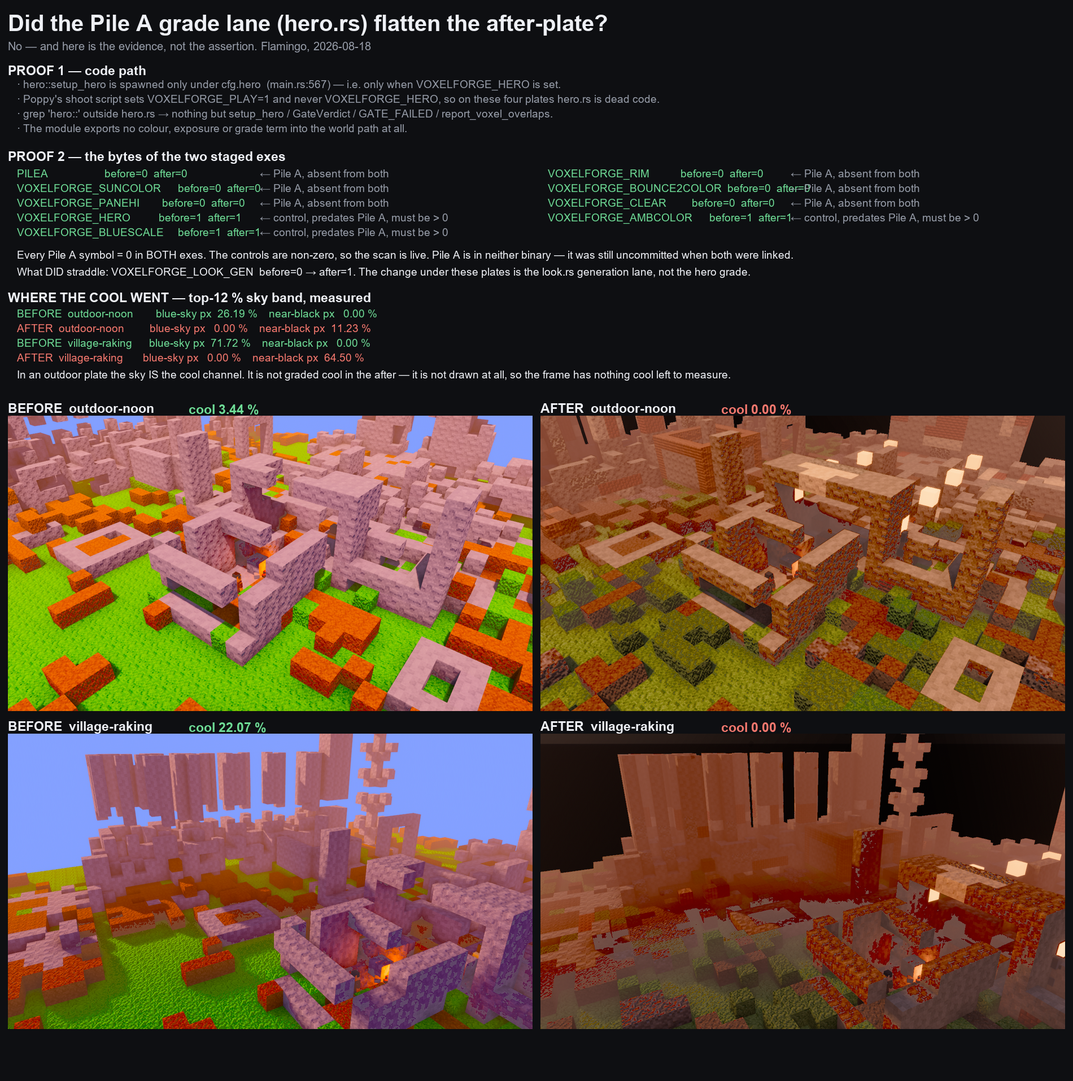
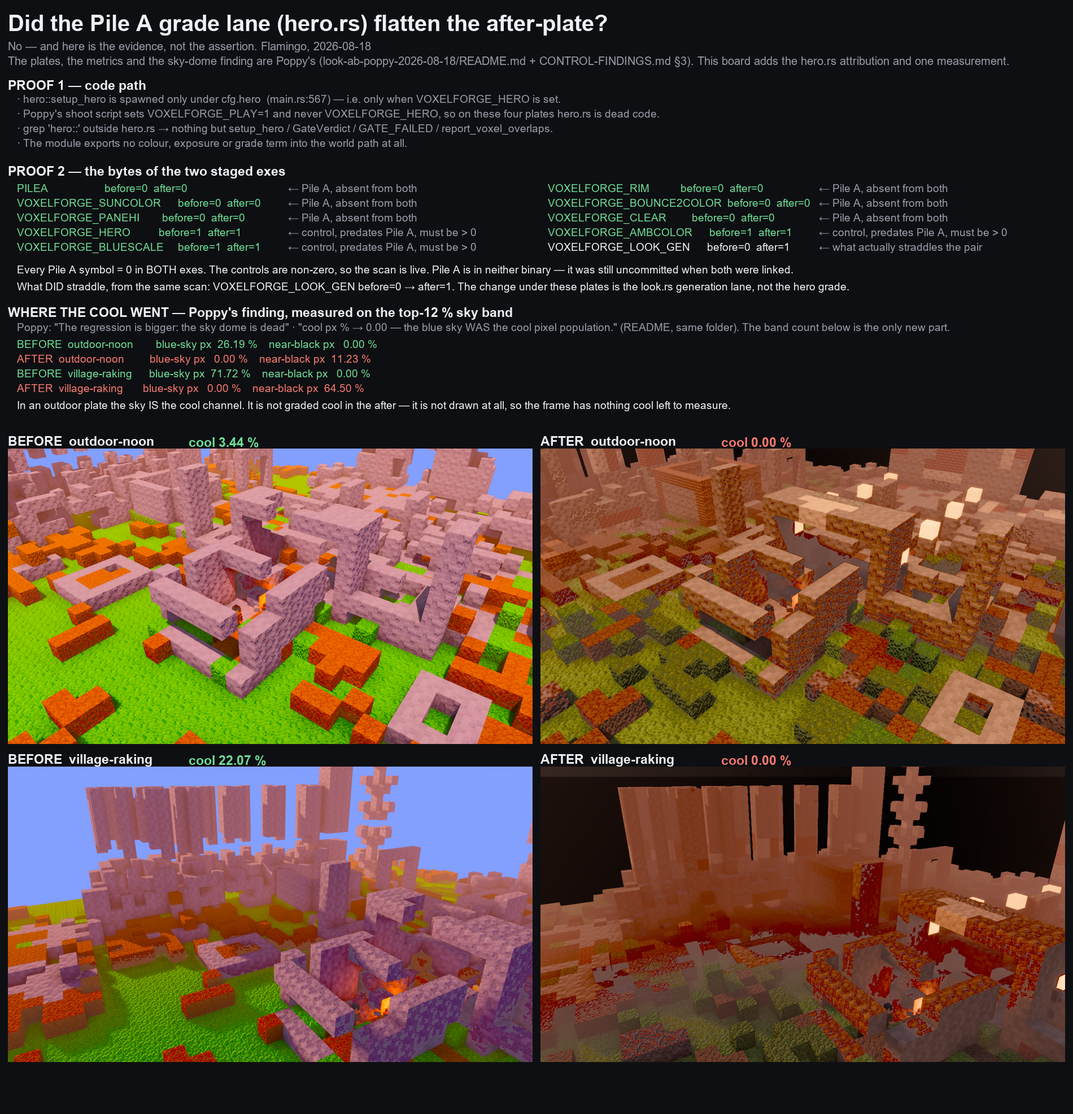
look(attrib): credit Poppy for the sky-dome finding, and stop printing numbers I did not measure
Review of 03e6a01 was right on three counts.

1. ATTRIBUTION. The sky-dome conclusion is Poppy's, published before I
   looked at it, in the same folder the plates came from:
   look-ab-poppy-2026-08-18/README.md -- "The regression is bigger: the sky
   dome is dead" / "cool px % -> 0.00 -- the blue sky WAS the cool pixel
   population" -- and CONTROL-FINDINGS.md §3, which proves with a one-binary
   control that both plates read v3. My board presented it as a discovery.
   It isn't one. The board now names Poppy in the subtitle and in the
   section header, quotes the README inline, and says plainly that the only
   new part is the top-12 % band count.

2. NO UNMEASURED NUMBERS NEXT TO MEASURED ONES. Two things were hand-typed
   strings dressed as readings:
     - "VOXELFORGE_LOOK_GEN before=0 -> after=1" was a d.text() literal
       outside PILEA_KEYS/CONTROL_KEYS, so the fail-closed control guard
       never covered it. It is now STRADDLE_KEYS, scanned with everything
       else and drawn from the counts (still 0 -> 1, now because the bytes
       say so). It gets no pass/fail colour: it is the finding, not a gate.
     - The plate captions "cool 3.44 %" / "cool 0.00 %" were literals in
       PLATES. They are now read from _poppy_ab_20260818_metrics.json at
       draw time, and the red/green threshold comes off the value. Poppy's
       own board does exactly this "so a caption cannot drift off its
       plate"; the rule was right and I should have followed it.
[…]

diff --git a/scripts/_flamingo_attrib_20260818.py b/scripts/_flamingo_attrib_20260818.py
@@ -2,11 +2,21 @@
 """Flamingo -- attribution board for the "after-plate went cool 0.00 %" finding.
 
 The question this answers is NOT "is the after plate worse" (Poppy measured that
-and it is). It is the narrower one I was asked: *did the Pile A grade lane in
-`hero.rs` cause it.*
+and it is), and NOT "what killed the cool pixels" -- **Poppy answered that one
+too**, before I looked at it, in `docs/look-ab-poppy-2026-08-18/README.md`:
 
-Two independent proofs go on the board, because either one alone is the kind of
-evidence that has fooled this office before:
+    "The regression is bigger: the sky dome is dead."
+    "cool px % -> 0.00 -- the blue sky *was* the cool pixel population. With the
+     dome gone, every cool pixel in the frame goes with it."
+
+and `CONTROL-FINDINGS.md` §3 proves with a one-binary control that both plates
+read v3, so the pair never tested the look lane at all. Everything this board
+says about the sky is Poppy's conclusion; my only addition there is a *number*
+for it (the top-12 % band count), not the finding.
+
+What IS mine is the narrower question I was asked: *did the Pile A grade lane in
+`hero.rs` cause it.* Two independent proofs go on the board, because either one
+alone is the kind of evidence that has fooled this office before:
 
   1. CODE PATH -- `hero::setup_hero` is spawned only under `cfg.hero`, i.e. only
      when `VOXELFORGE_HERO` is set. Poppy's shoot script sets `VOXELFORGE_PLAY=1`
@@ -21,11 +31,16 @@ evidence that has fooled this office before:
      (VOXELFORGE_HERO, _AMBCOLOR, _BLUESCALE) are scanned alongside so a scan
      that silently finds nothing cannot be mistaken for a clean result.
 
+Nothing on this board is typed in by hand. Every number is read at draw time
+from the pinned exes or from Poppy's `_poppy_ab_20260818_metrics.json`, because
+a caption that cannot drift is the only kind worth printing next to a measured
+one -- that rule is Poppy's too, from the board in the same folder.
+
 Writes docs/assets/look/flamingo-attrib-2026-08-18.png
 """
+import hashlib
 import json
 import re
-import subprocess
 import sys
 from pathlib import Path
 
@@ -33,6 +48,8 @@ from PIL import Image, ImageDraw, ImageFont
 
 ROOT = Path(__file__).resolve().parents[1]
 AB = ROOT / "docs" / "look-ab-poppy-2026-08-18"
+STAGE = ROOT / "_poppy_ab_stage"
+METRICS = ROOT / "_poppy_ab_20260818_metrics.json"
 OUT = ROOT / "docs" / "assets" / "look" / "flamingo-attrib-2026-08-18.png"
 
 # Pile A's own symbols, then three controls that existed BEFORE Pile A. If the
@@ -40,14 +57,28 @@ OUT = ROOT / "docs" / "assets" / "look" / "flamingo-attrib-2026-08-18.png"
 PILEA_KEYS = ["PILEA", "VOXELFORGE_RIM", "VOXELFORGE_SUNCOLOR",
               "VOXELFORGE_BOUNCE2COLOR", "VOXELFORGE_PANEHI", "VOXELFORGE_CLEAR"]
 CONTROL_KEYS = ["VOXELFORGE_HERO", "VOXELFORGE_AMBCOLOR", "VOXELFORGE_BLUESCALE"]
+# What actually straddles the pair. Scanned like everything else so the board
+# prints a measurement, not a sentence I typed. Named separately because it is
+# neither a Pile A symbol (must be 0) nor a control (must be > 0) -- it is the
+# finding, and it must go up as whatever the bytes say.
+STRADDLE_KEYS = ["VOXELFORGE_LOOK_GEN"]
 
-EXES = [("BEFORE exe", ROOT / "target-flamingo" / "release" / "voxelforge.exe"),
-        ("AFTER exe", ROOT / "target" / "release" / "voxelforge.exe")]
+# Poppy staged these two copies precisely because a teammate was building into
+# the shared `target/`. Scanning `target/` live means the next `--bin voxelforge`
+# build silently swaps the AFTER exe under the board. Read the frozen copies and
+# pin them: a swapped binary must fail loudly, not re-render quietly.
+EXES = [("BEFORE exe", STAGE / "before_voxelforge.exe",
+         "4ded9219a24913a811b307265077b980"),
+        ("AFTER exe", STAGE / "after_voxelforge.exe",
+         "b417f9b4a50d826eb97b01c7588882e0")]
 
-PLATES = [("before_outdoor-noon", "BEFORE  outdoor-noon", "cool 3.44 %"),
-          ("after_outdoor-noon", "AFTER  outdoor-noon", "cool 0.00 %"),
-          ("before_village-raking", "BEFORE  village-raking", "cool 22.07 %"),
-          ("after_village-raking", "AFTER  village-raking", "cool 0.00 %")]
+# (plate stem, caption title, key in Poppy's metrics json). The cool % is READ
+# from that file at draw time -- Poppy's own board does this so a caption cannot
+# drift off its plate, and the same reason applies here.
+PLATES = [("before_outdoor-noon", "BEFORE  outdoor-noon", "before_noon"),
+          ("after_outdoor-noon", "AFTER  outdoor-noon", "after_noon"),
+          ("before_village-raking", "BEFORE  village-raking", "before_vill"),
+          ("after_village-raking", "AFTER  village-raking", "after_vill")]
 
 
 def font(sz, bold=False):
@@ -59,19 +90,30 @@ def font(sz, bold=False):
     return ImageFont.load_default()
 
 
+ALL_KEYS = PILEA_KEYS + CONTROL_KEYS + STRADDLE_KEYS
+
+
 def scan(path):
     """Count each key in the exe's bytes. Latin-1 maps every byte 1:1, so a
     match offset is a real byte offset -- no decode can drop a region."""
     blob = path.read_bytes().decode("latin-1")
-    return {k: len(re.findall(re.escape(k), blob)) for k in PILEA_KEYS + CONTROL_KEYS}
+    return {k: len(re.findall(re.escape(k), blob)) for k in ALL_KEYS}
 
 
 def main():
-    for _, p in EXES:
+    # ---- pin the binaries before reading a single byte of them ----------
+    for tag, p, want in EXES:
         if not p.exists():
-            sys.exit(f"missing exe: {p}")
+            sys.exit(f"REFUSING TO MEASURE: missing {tag}: {p}")
+        got = hashlib.md5(p.read_bytes()).hexdigest()
+        if got != want:
+            sys.exit(f"REFUSING TO MEASURE: {tag} {p.name} is md5 {got}, "
+                     f"expected {want} -- the staged binary was replaced. "
+                     "Re-stage from the run that shot these plates, or re-pin "
+                     "deliberately; do NOT re-render the board against a "
+                     "different exe.")
 
-    scans = [(tag, p, scan(p)) for tag, p in EXES]
+    scans = [(tag, p, scan(p)) for tag, p, _ in EXES]
 
     # Guard: if a control key is 0 in every exe, the scan itself is dead and the
     # board would publish a false "clean". Refuse rather than draw it.
@@ -80,13 +122,23 @@ def main():
             sys.exit(f"REFUSING TO MEASURE: control key {ck} is 0 in every exe -- "
                      "the scan is broken, not the binaries clean")
 
-    W, TH, GAP = 1900, 706, 14
+    if not METRICS.exists():
+        sys.exit(f"REFUSING TO MEASURE: missing {METRICS} -- the plate captions "
+                 "are read from it, and hand-typed ones drift")
+    metrics = json.loads(METRICS.read_text())
+    for _, _, mkey in PLATES:
+        if mkey not in metrics or "cool_pct_all" not in metrics[mkey]:
+            sys.exit(f"REFUSING TO MEASURE: {METRICS.name} has no "
+                     f"{mkey}.cool_pct_all")
+
+    W, TH, GAP = 1900, 764, 14
     cell_w = (W - GAP * 3) // 2
     plates = []
-    for stem, title, note in PLATES:
+    for stem, title, mkey in PLATES:
         im = Image.open(AB / f"{stem}.png").convert("RGB")
         h = round(im.height * cell_w / im.width)
-        plates.append((im.resize((cell_w, h), Image.LANCZOS), title, note))
+        cool = metrics[mkey]["cool_pct_all"]
+        plates.append((im.resize((cell_w, h), Image.LANCZOS), title, cool))
     ph = plates[0][0].height
     H = TH + (ph + 40) * 2 + GAP * 3 + 40
 
@@ -99,8 +151,12 @@ def main():
            font=f_h1, fill=INK)
     d.text((GAP, 70), "No — and here is the evidence, not the assertion. "
            "Flamingo, 2026-08-18", font=f_b, fill=DIM)
+    d.text((GAP, 96), "The plates, the metrics and the sky-dome finding are Poppy's "
+           "(look-ab-poppy-2026-08-18/README.md + CONTROL-FINDINGS.md §3). "
+           "This board adds the hero.rs attribution and one measurement.",
+           font=f_b, fill=DIM)
 
-    y = 112
+    y = 138
     d.text((GAP, y), "PROOF 1 — code path", font=f_h2, fill=INK)
     for ln in ["hero::setup_hero is spawned only under cfg.hero  (main.rs:567) — i.e. only when VOXELFORGE_HERO is set.",
                "Poppy's shoot script sets VOXELFORGE_PLAY=1 and never VOXELFORGE_HERO, so on these four plates hero.rs is dead code.",
@@ -114,28 +170,43 @@ def main():
     y += 32
     # Two columns, each wide enough for label AND tail — a three-up grid ran the
     # tails into the next column's label and the board became unreadable.
-    for i, key in enumerate(PILEA_KEYS + CONTROL_KEYS):
+    for i, key in enumerate(ALL_KEYS):
         cx = GAP + 16 + (i % 2) * 940
         cy = y + (i // 2) * 26
-        is_ctrl = key in CONTROL_KEYS
         counts = [s[key] for _, _, s in scans]
-        colour = (GOOD if any(counts) else BAD) if is_ctrl else (BAD if any(counts) else GOOD)
-        tail = "← control, predates Pile A, must be > 0" if is_ctrl \
-            else "← Pile A, absent from both"
+        if key in CONTROL_KEYS:
+            colour = GOOD if any(counts) else BAD
+            tail = "← control, predates Pile A, must be > 0"
+        elif key in STRADDLE_KEYS:
+            # No pass/fail colour: this row is the finding, whatever it reads.
+            colour = INK
+            tail = "← what actually straddles the pair"
+        else:
+            colour = BAD if any(counts) else GOOD
+            tail = "← Pile A, absent from both"
         d.text((cx, cy), f"{key:<24} before={counts[0]}  after={counts[1]}", font=f_m, fill=colour)
-        d.text((cx + 430, cy), tail, font=f_m, fill=DIM)
-    y += ((len(PILEA_KEYS + CONTROL_KEYS) + 1) // 2) * 26 + 14
+        d.text((cx + 480, cy), tail, font=f_m, fill=DIM)
+    y += ((len(ALL_KEYS) + 1) // 2) * 26 + 14
     d.text((GAP + 16, y), "Every Pile A symbol = 0 in BOTH exes. The controls are non-zero, so the scan is live. "
            "Pile A is in neither binary — it was still uncommitted when both were linked.",
            font=f_m, fill=INK)
     y += 30
-    d.text((GAP + 16, y), "What DID straddle: VOXELFORGE_LOOK_GEN  before=0 → after=1. "
+    gen = STRADDLE_KEYS[0]
+    gen_counts = [s[gen] for _, _, s in scans]
+    d.text((GAP + 16, y), f"What DID straddle, from the same scan: {gen} "
+           f"before={gen_counts[0]} → after={gen_counts[1]}. "
            "The change under these plates is the look.rs generation lane, not the hero grade.",
            font=f_m, fill=INK)
 
-    # ---- what actually ate the cool pixels, measured rather than eyeballed ----
+    # ---- Poppy's finding, with a number attached ----
     y += 44
-    d.text((GAP, y), "WHERE THE COOL WENT — top-12 % sky band, measured", font=f_h2, fill=INK)
+    d.text((GAP, y), "WHERE THE COOL WENT — Poppy's finding, measured on the top-12 % sky band",
+           font=f_h2, fill=INK)
+    y += 28
+    d.text((GAP + 16, y), "Poppy: \"The regression is bigger: the sky dome is dead\" · "
+           "\"cool px % → 0.00 — the blue sky WAS the cool pixel population.\" "
+           "(README, same folder). The band count below is the only new part.",
+           font=f_m, fill=DIM)
     y += 30
     for stem, title, _ in PLATES:
         im = Image.open(AB / f"{stem}.png").convert("RGB")
@@ -154,13 +225,13 @@ def main():
            font=f_m, fill=INK)
 
     y = TH
-    for i, (im, title, note) in enumerate(plates):
+    for i, (im, title, cool) in enumerate(plates):
         x = GAP + (i % 2) * (cell_w + GAP)
         yy = y + (i // 2) * (ph + 40)
         board.paste(im, (x, yy + 30))
-        bad = note == "cool 0.00 %"
+        note = f"cool {cool:.2f} %"   # from Poppy's metrics json, not typed here
         d.text((x, yy + 4), title, font=f_h2, fill=INK)
-        d.text((x + 320, yy + 6), note, font=f_h2, fill=BAD if bad else GOOD)
+        d.text((x + 320, yy + 6), note, font=f_h2, fill=BAD if cool < 1.0 else GOOD)
     OUT.parent.mkdir(parents=True, exist_ok=True)
     board.save(OUT)
     print(f"WROTE {OUT}  {OUT.stat().st_size} bytes  {board.width}x{board.height}")
